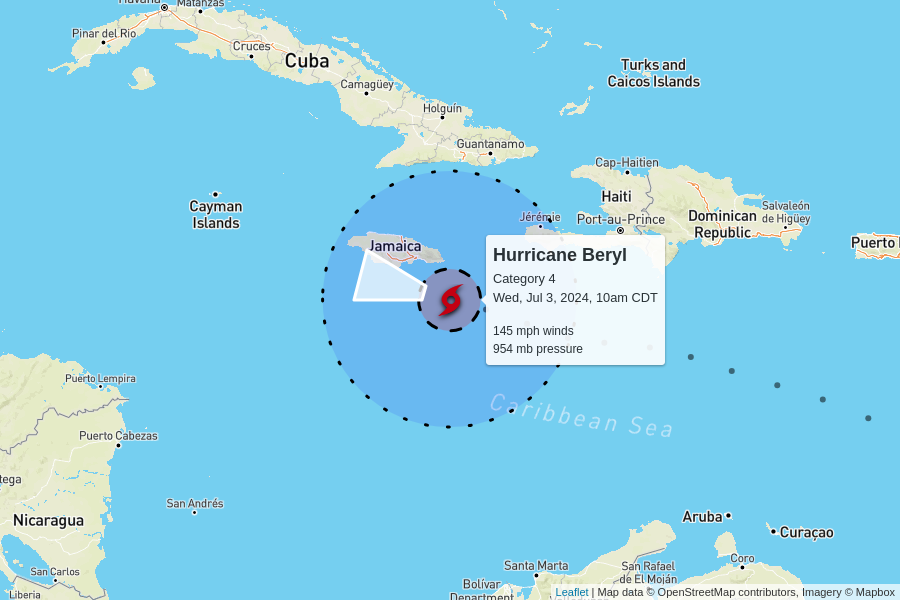
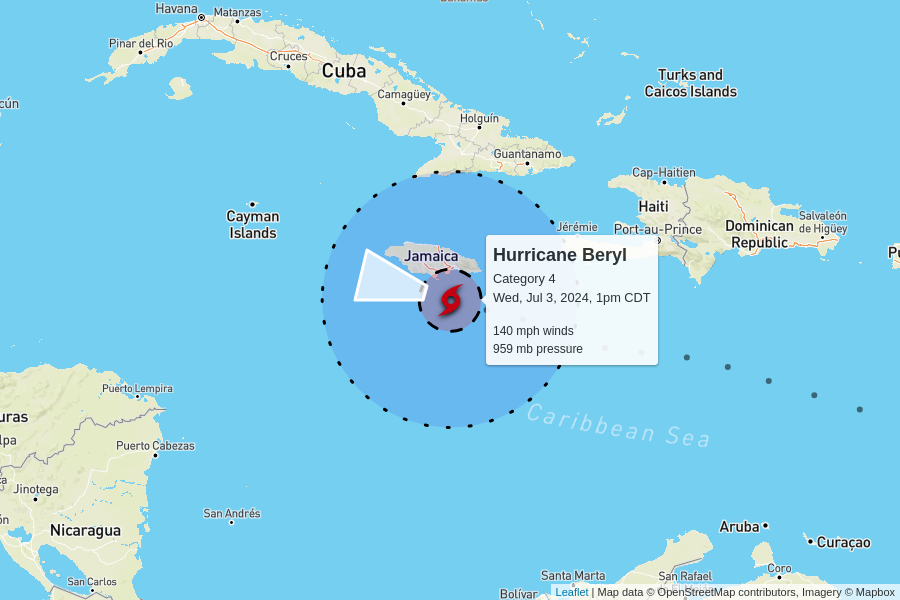
automatic update

diff --git a/docs/index.html b/docs/index.html
@@ -102,7 +102,7 @@
         <td colspan="6" class="storm category-4" >
           <h2>
             Hurricane Beryl - Category 4
-            <p class="updated">last updated <span data-time>2024-07-03T15:00:00.000Z</span></p>
+            <p class="updated">last updated <span data-time>2024-07-03T18:00:00.000Z</span></p>
           </h2>
         </td>
       </tr>
@@ -117,8 +117,8 @@
       </tr>
       <tr>
         <td class="spacer"></td>
-        <td>145 mph<br>0 mph since last update</td>
-        <td>954 mb<br>+2 mb since last update</td>
+        <td>140 mph<br>-5 mph since last update</td>
+        <td>959 mb<br>+5 mb since last update</td>
         <td>
           18 mph to the west-northwest
           <br/>
